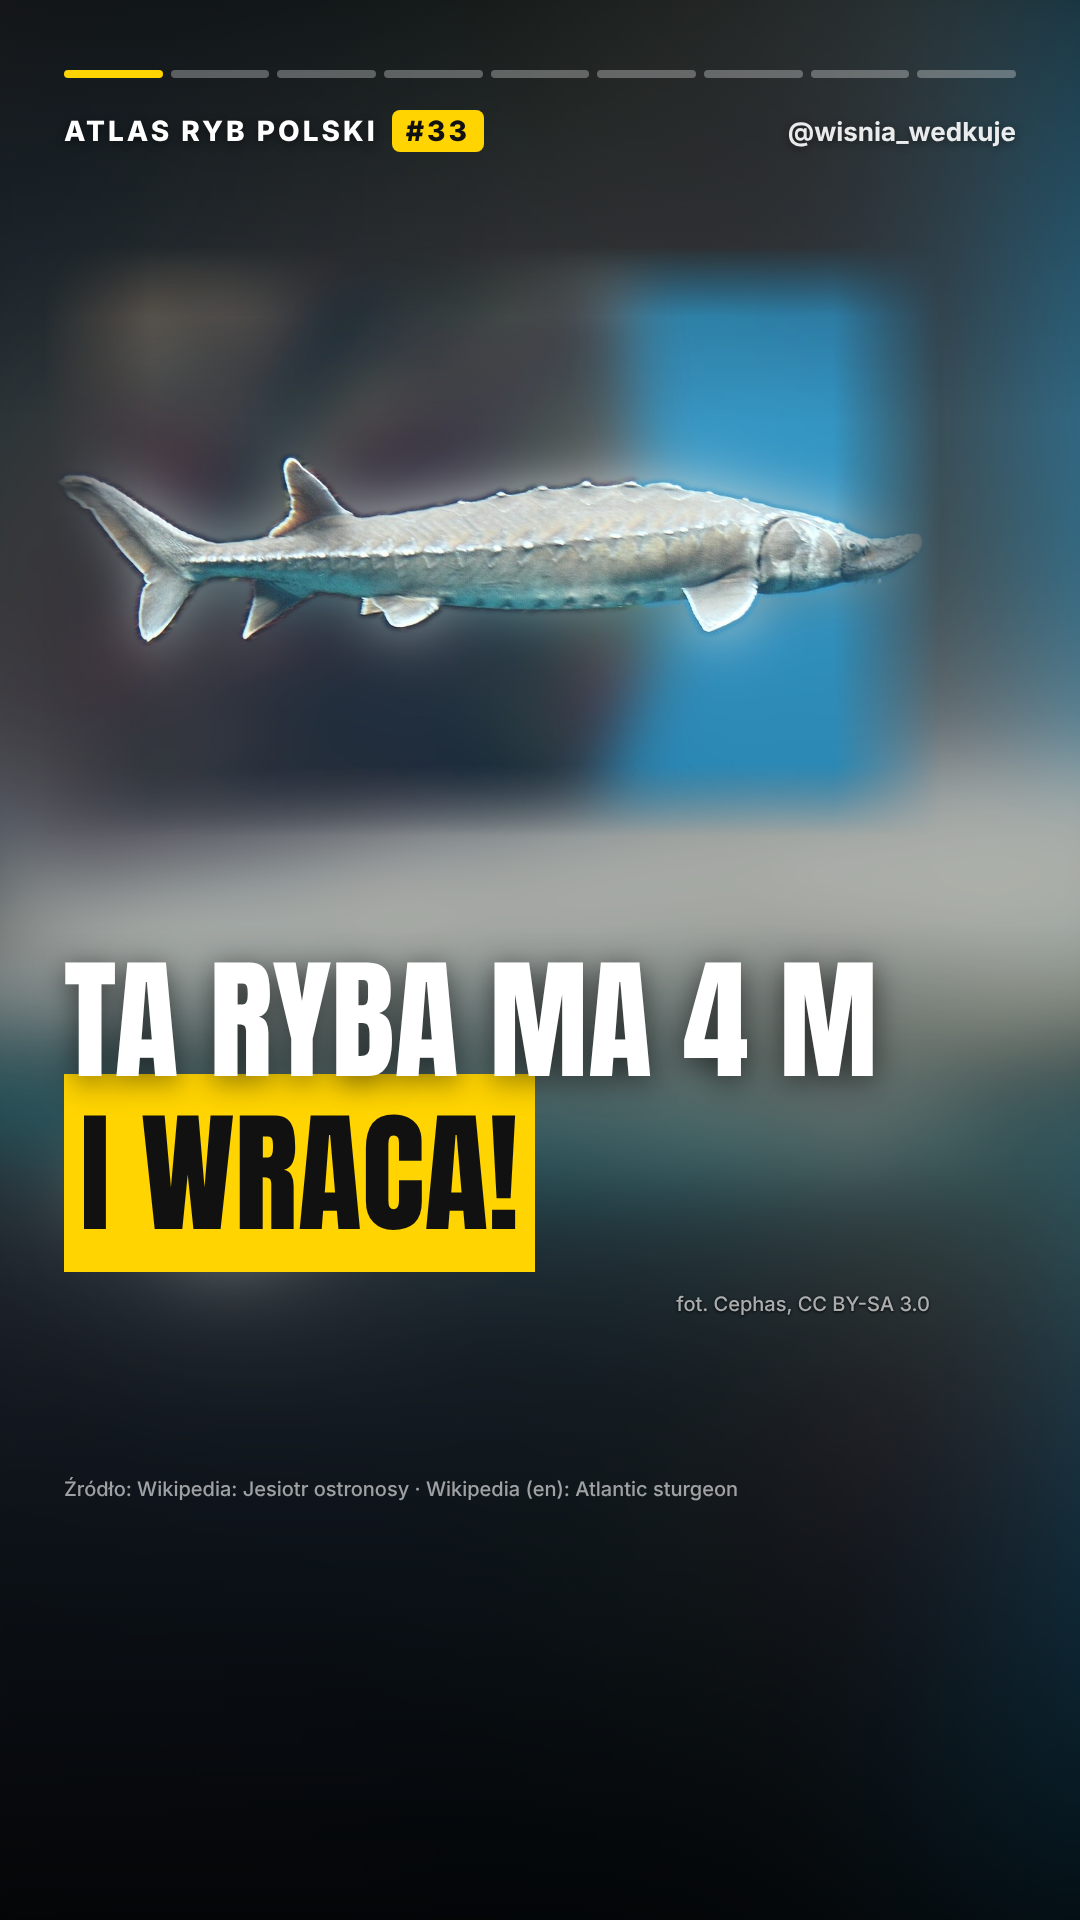
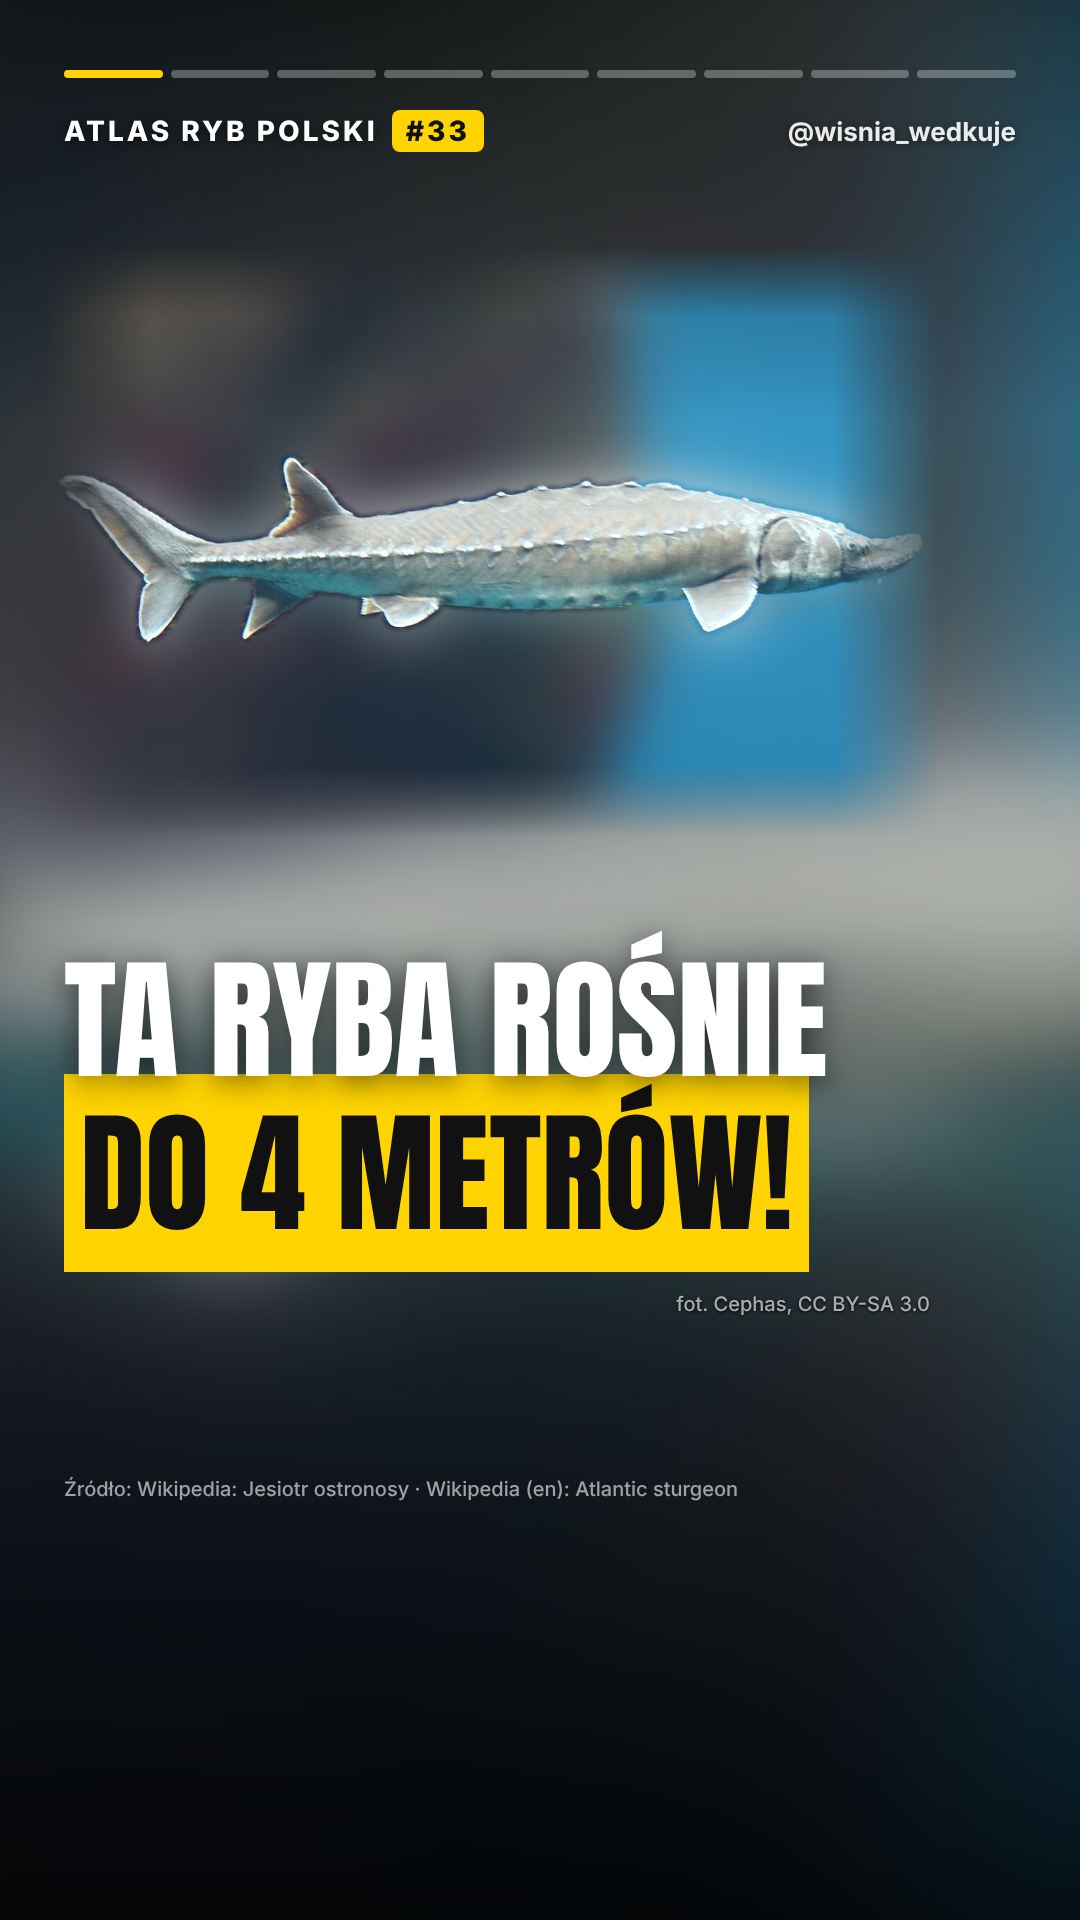
Atlas 33 Jesiotr: hook 4 metry, ciekawostka żywa skamieniałość
Claude-Session: https://claude.ai/code/session_01YFDAx1LD8sTfHqEDUSbp2L

Changed region(s): [[0.0917, 0.4688, 0.825, 0.6875]]

diff --git a/atlas/scenariusze/jesiotr.md b/atlas/scenariusze/jesiotr.md
@@ -1,7 +1,8 @@
 # 33 Jesiotr ostronosy (Acipenser oxyrinchus)
 
 ## Hook (ig-reel, ocena wersji angielskiej)
-- **79,4 STRONG „You'd never guess this 4 metre fish is back in Polish rivers.” – wybrany** (PL: „Ta ryba ma cztery metry i wraca do polskich rzek!”).
+- **79,5 STRONG „This fish can grow to 4 metres. You can't keep a single one.” – wybrany po uwadze użytkownika** (PL: „Ta ryba może urosnąć nawet do czterech metrów! Ale nie wolno zabrać ani jednej.”).
+- Poprzedni (wcześniej wybrany): - **79,4 STRONG „You'd never guess this 4 metre fish is back in Polish rivers.” – wybrany** (PL: „Ta ryba ma cztery metry i wraca do polskich rzek!”).
 - 80,2 „Never keep this fish. It is protected all year in Poland.” – fakt użyty w scenie przepisów.
 - 63 płytki kostne zamiast łusek / 60 „You could catch a 4 metre fish…” / 41 „died out… Canada” – słabsze.
 Źródła: Wikipedia PL (do 4 m i 350 kg; restytucja z materiału z rzeki St. John, Kanada), Wikipedia EN (wymarł w Bałtyku w XX w.;
@@ -16,6 +17,11 @@ projekt polsko-niemiecki, wypuszczanie do Odry).
   skoki nad wodę (przyczyna nieznana, może komunikacja).
 - Rozporządzenie: okres ochronny 1.01–31.12 (cały rok), brak wymiaru. Brak danych PZW (gatunek chroniony) – w scenie 8 tylko poziom państwowy.
 - Rekord WW: brak → scena 7 „bez_rekordu” (największe okazy wg Wikipedii PL).
+
+## Ciekawostka (zmiana na prośbę użytkownika)
+„Żywa skamieniałość”: prawdziwe jesiotry w zapisie kopalnym od późnej kredy (ok. 100–94 mln lat temu – czasy dinozaurów),
+od tego czasu bardzo mało zmienione, nieformalnie „żywe skamieniałości” – Wikipedia (en): Sturgeon; Wikipedia: Jesiotrowate (od późnej kredy).
+Poprzednia ciekawostka (skoki nad wodę) – pominięta.
 
 ## Celowo pominięte
 - Długość życia: Wikipedia PL „nawet 35 lat” vs EN „do 60 lat” – sprzeczne, pominięte.
